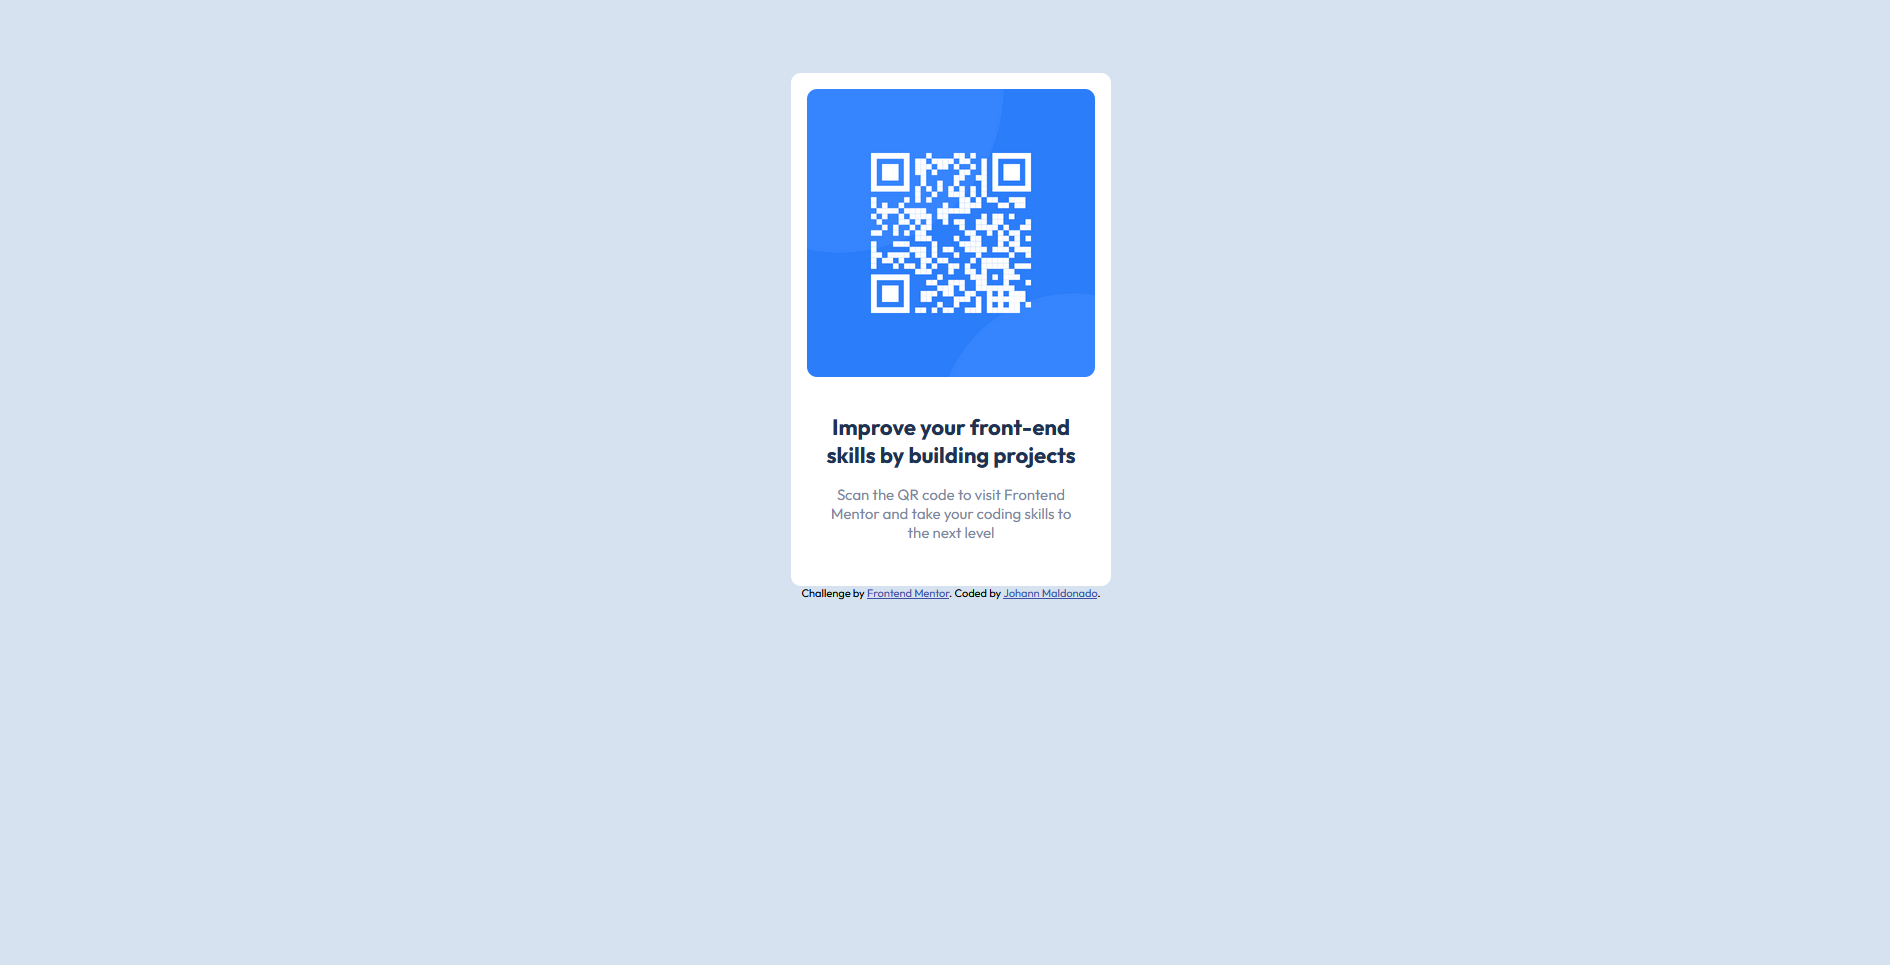
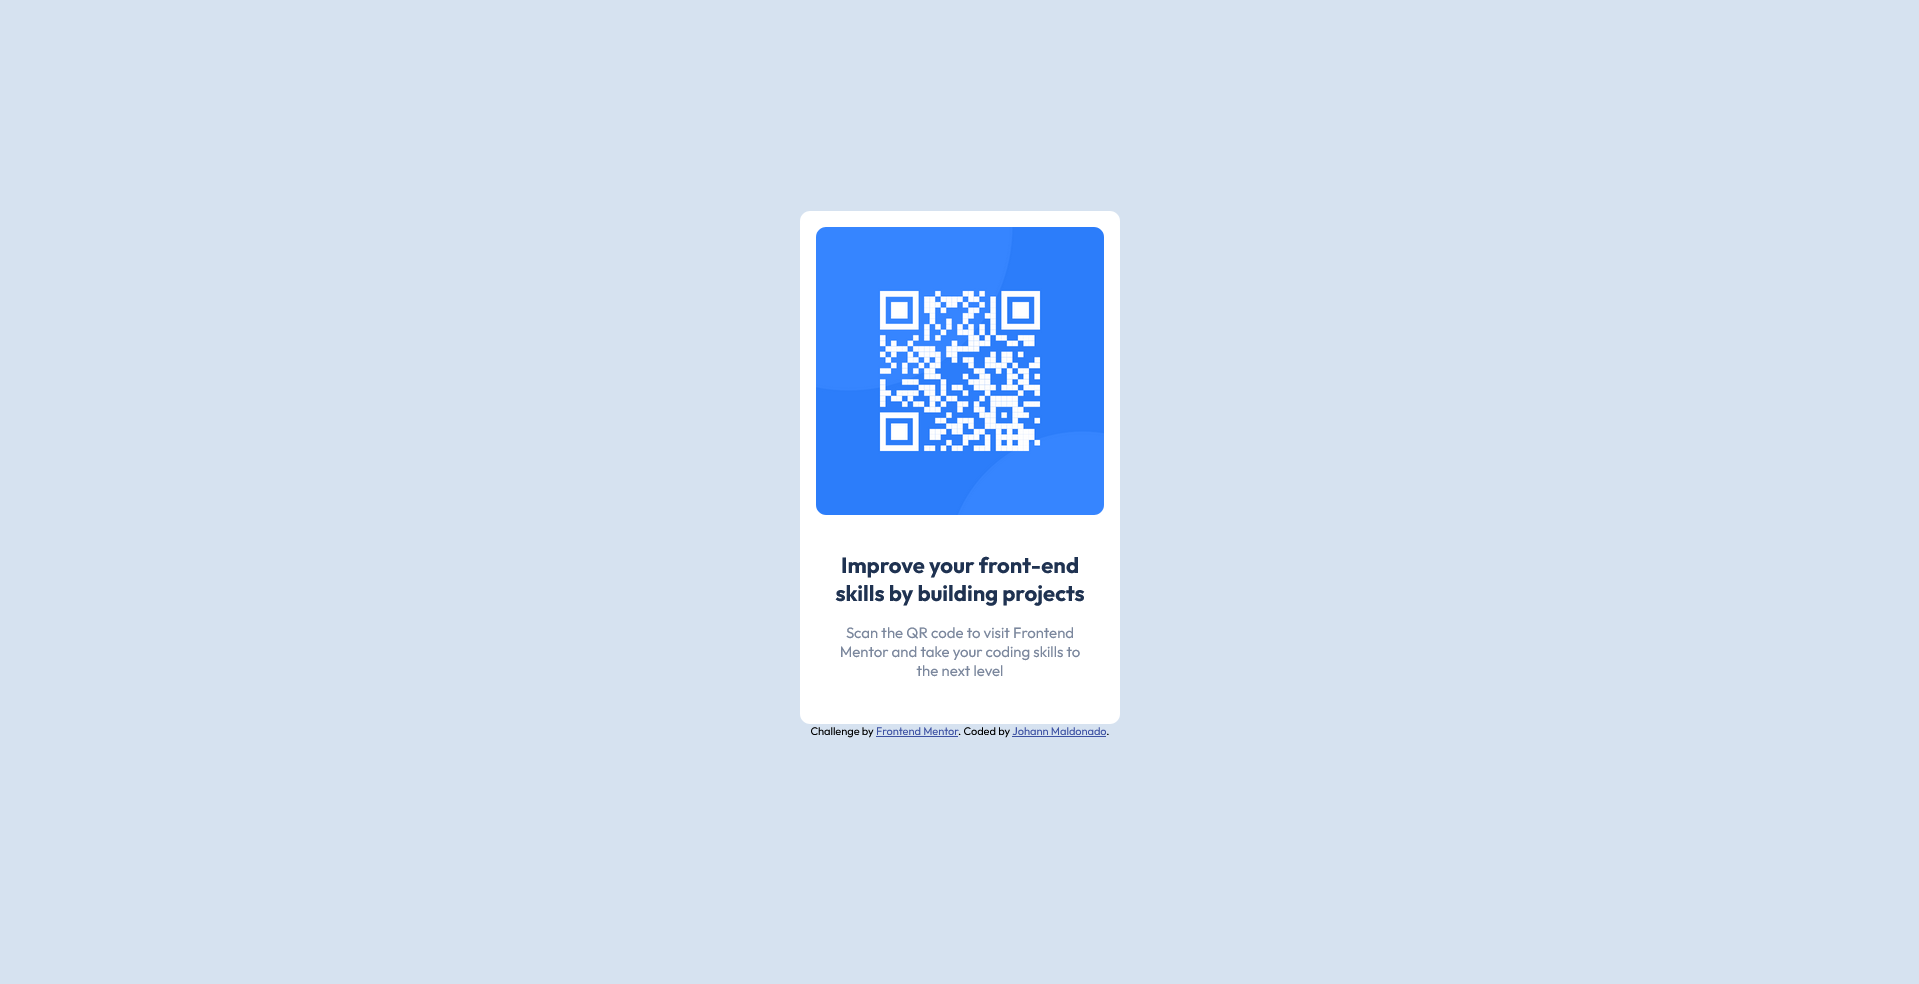
Updated files

Changed region(s): [[0.4058, 0.0622, 0.5931, 0.7461]]

diff --git a/qr-code-component-main/style.css b/qr-code-component-main/style.css
@@ -5,12 +5,14 @@
 body {
     background-color: hsl(212, 45%, 89%);
     font-family: "Outfit", sans-serif;
+    padding-bottom: 7.5%;
+    padding-top: 7.5%;
 }
 
 .container {
-    width: 320px;
-    height: 497px;
     margin-top: 75px;
+    width: 320px;
+    height: auto;
     margin-left: auto;
     margin-right: auto;
     background-color: hsl(0, 0%, 100%);
@@ -23,6 +25,7 @@ body {
 .inner-container {
     margin-left: 16px;
     width: 288px;
+    height: 497px;
     margin-top: auto;
     margin-bottom: auto;
 }
@@ -31,6 +34,7 @@ body {
     text-align: center;
     padding: 0 auto;
     margin-top: 32px;
+    margin-bottom: 32px;
 }
 
 img {
